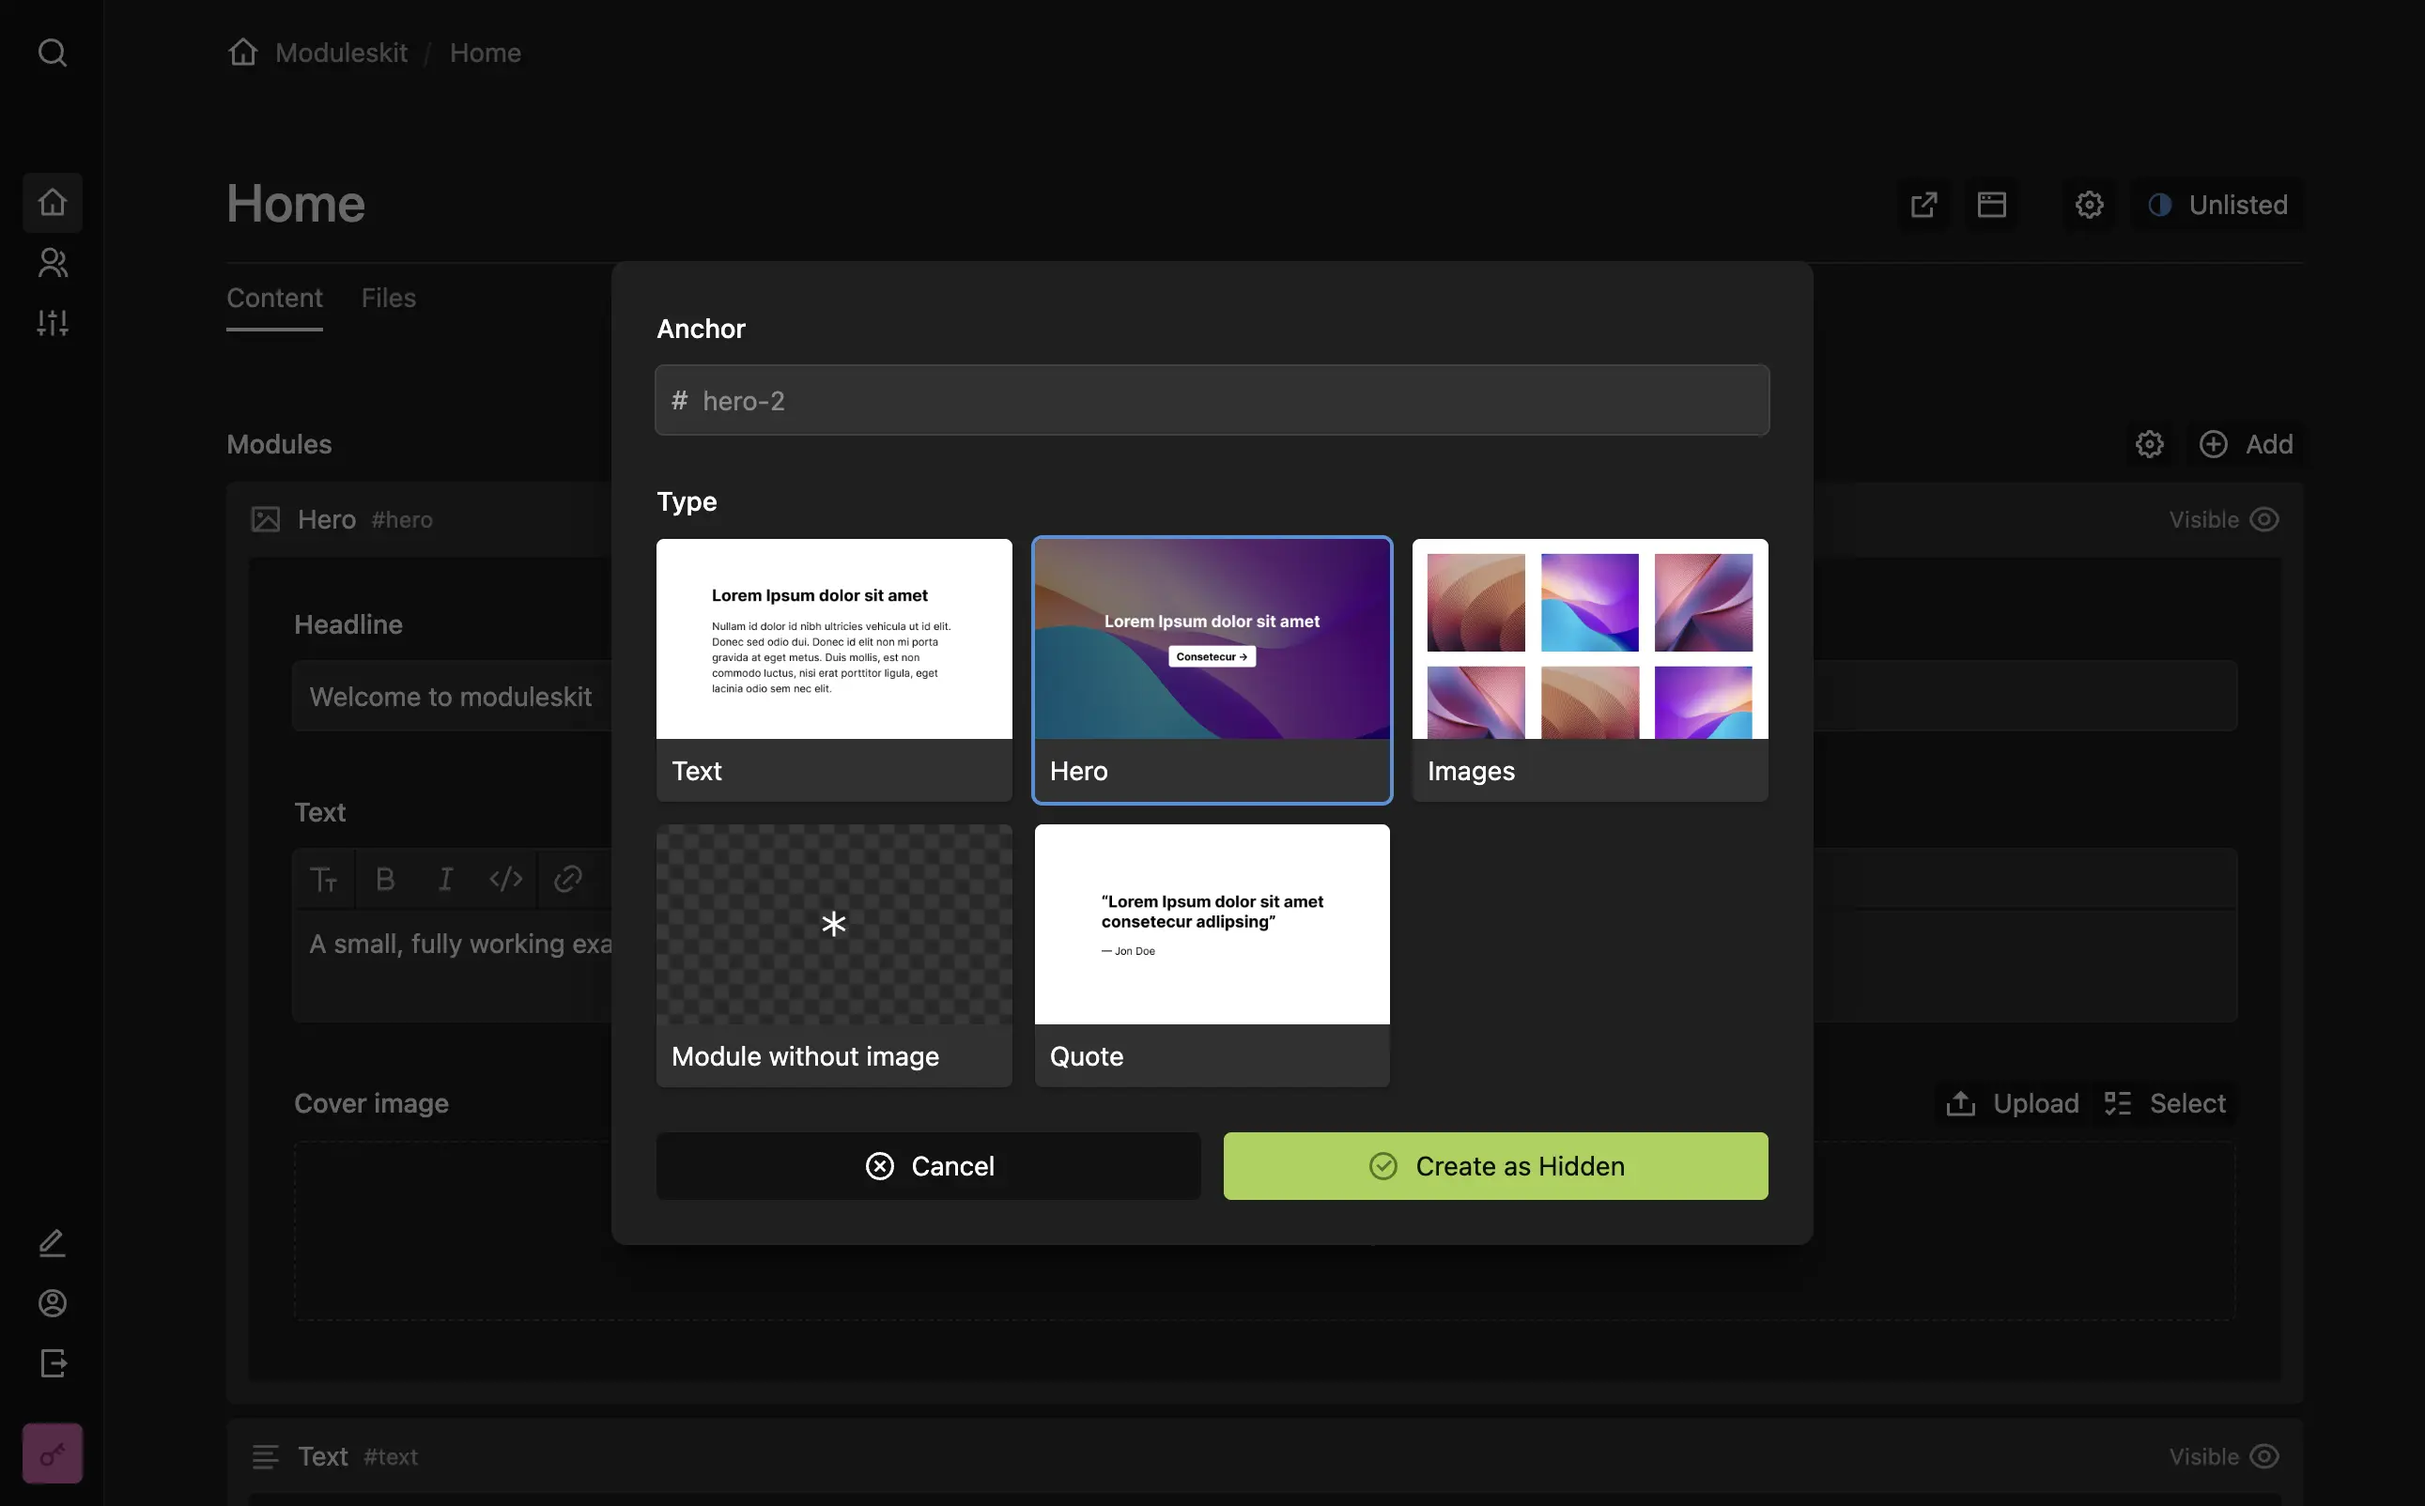
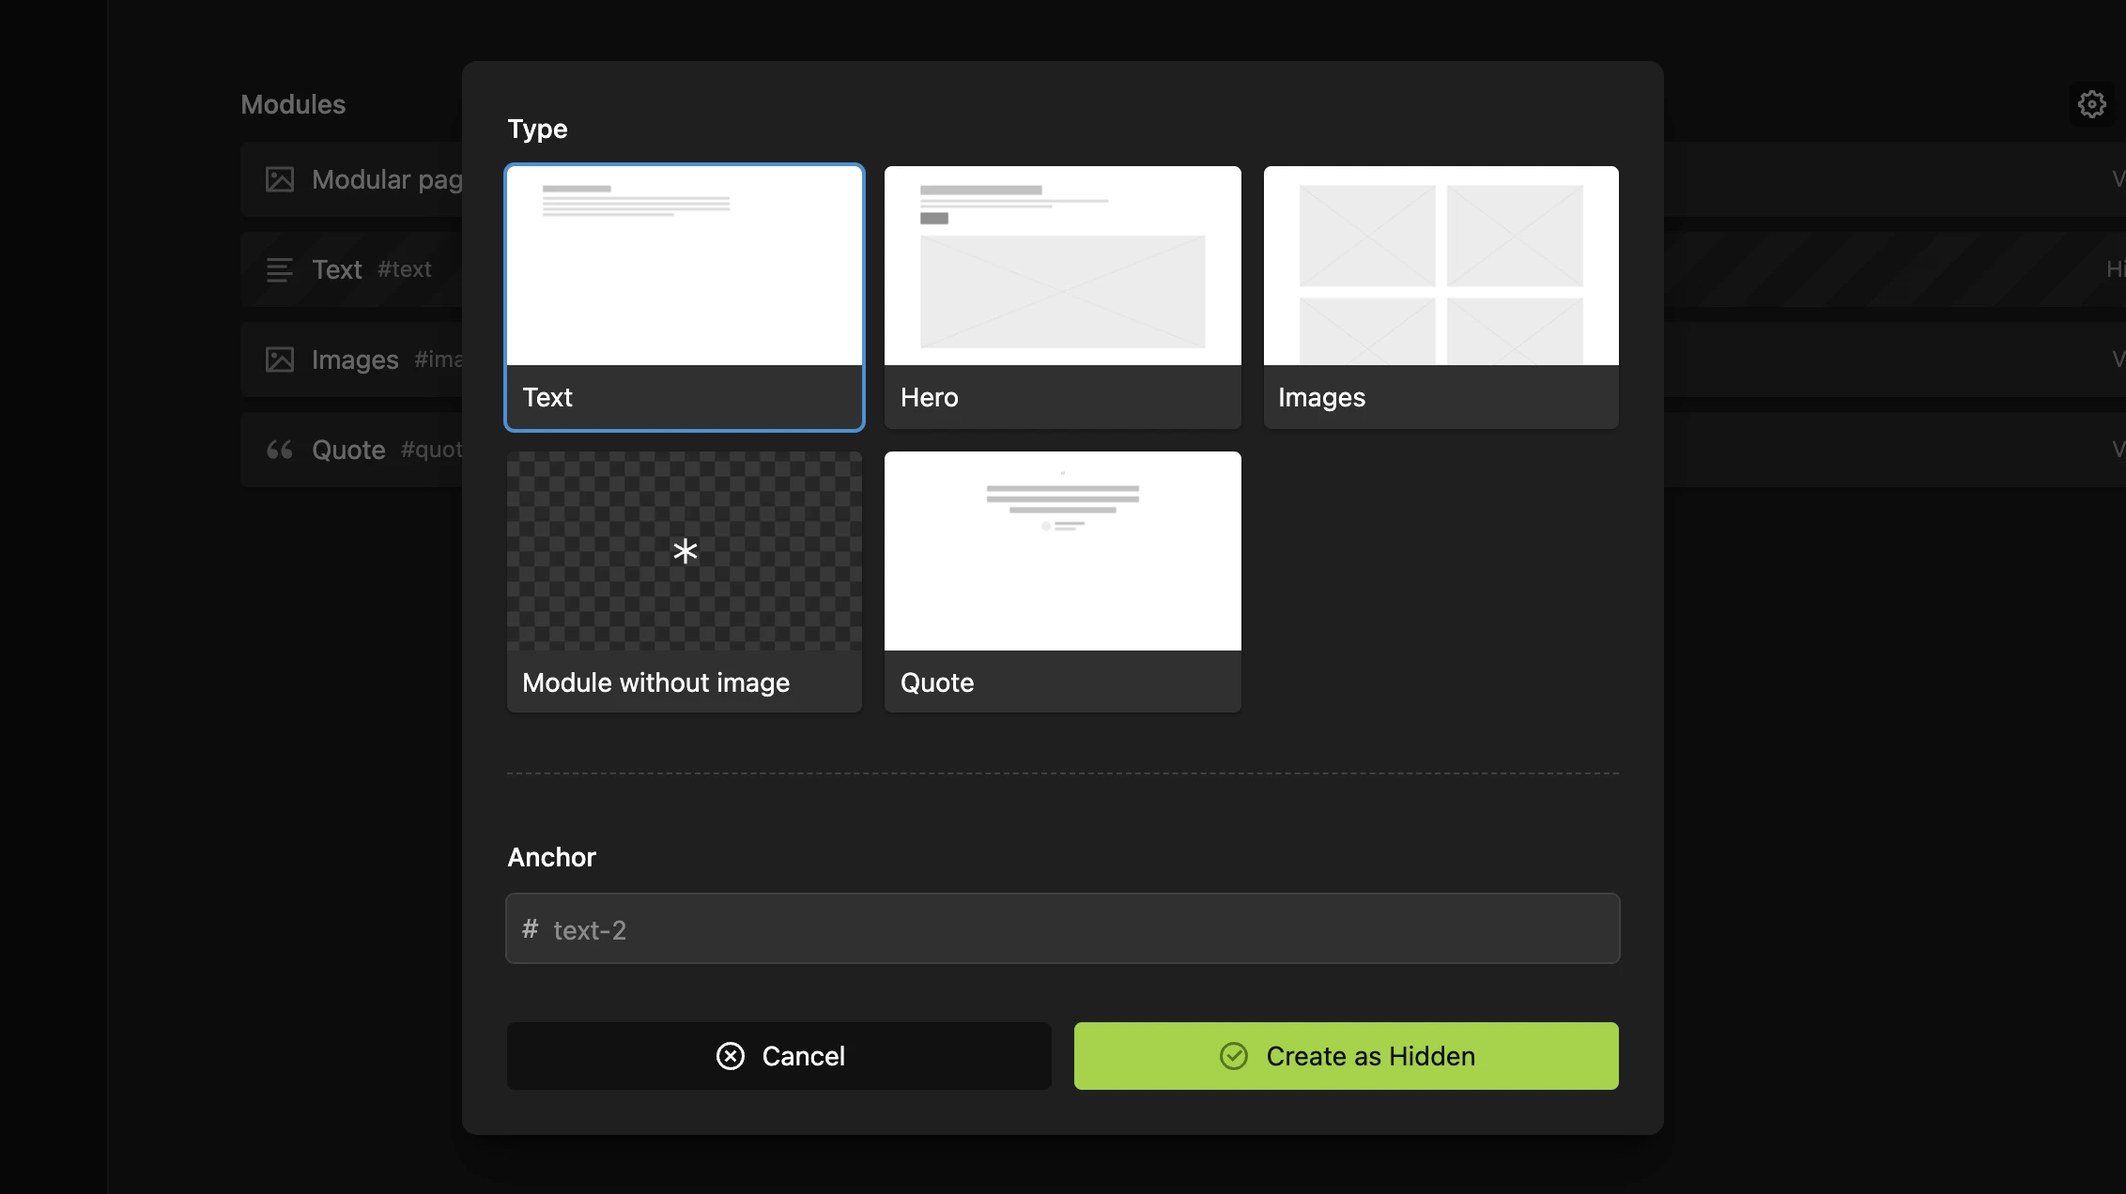
Update README, screenshots

diff --git a/README.md b/README.md
@@ -2,7 +2,7 @@
 
 Modular page building for [Kirby](https://getkirby.com/). Every module is a regular page with its own blueprint and snippet, edited inline on the parent page.
 
-<img width="1089" height="929" alt="Screenshot of the modules section with two modules, a text module with a textarea and a text with buttons module with both a textarea and a structure field for buttons" src=".github/screenshot.webp" />
+<img width="1132" height="802" alt="Screenshot of the modules section with two modules: a hero module whose card title shows its headline, and a selected text module with its toolbar" src=".github/screenshot.webp" />
 
 - Edit module fields inline on the parent page with a blocks-like UI
 - Signed previews for hidden modules
@@ -98,6 +98,8 @@ Modules are edited inline on the parent page: expand or collapse them, sort them
 
 Each module's visibility can be toggled with a single click on its card. Hidden modules stay in place, keeping their sort position and any inline edits, but the frontend skips over them when rendering. The card shows a striped background while a module is hidden.
 
+<img width="1132" height="188" alt="Screenshot of two module cards, one marked Visible and one marked Hidden with a striped background" src=".github/visibility.webp" />
+
 New modules are created hidden, so editors can prepare content before it goes live. Set `autopublish: true` to create them visible instead. The setting closest to a module wins, so you can turn it on for a single type or one section even when everything else stays hidden:
 
 ```yml
@@ -140,7 +142,7 @@ fields:
     type: text
 ```
 
-<img width="455" height="222" alt="Screenshot of a module, showing a text field with This is the label as value, same text is shown in the module card's title" src=".github/label.webp" />
+<img width="1132" height="200" alt="Screenshot of a module whose card title reads Modular page building, the same value as its Headline field" src=".github/label.webp" />
 
 It's a [query](https://getkirby.com/docs/guide/blueprints/query-language) resolved from the module's fields and refreshed on every save, so a text module shows its current headline. An empty result falls back to the title.
 
@@ -193,6 +195,8 @@ fields:
     type: textarea
 ```
 
+<img width="1132" height="584" alt="Screenshot of the module create dialog with a Headline field added below the anchor" src=".github/create-fields.webp" />
+
 Use it for the things worth setting before the module exists; everything else is edited inline afterwards. Only fields that fit in a dialog work here: text, number, select, date, toggle, link and the like. A textarea, blocks or structure field (or the reserved name `title`) can't be shown and raises an error. That's why the example asks only for the `headline`; the `text` body is a textarea, so you fill it in inline. A `required` field has to be listed here or have a `default`. Kirby normally creates a page as a draft to finish later; a module skips that, so every required field must be satisfied at creation.
 
 #### Filling the anchor automatically
@@ -212,13 +216,44 @@ When the anchor is filled this way and the type asks for no `create.fields`, the
 
 Add preview images to make the create and change-type dialogs show a visual grid instead of a dropdown. Drop images into `assets/module-previews/`, named after the module, for example `text.png` for the `text` module. Any image format works; a 16:9 ratio looks best.
 
-<img width="1291" height="802" alt="Screenshot of the module create dialog with an anchor field and 5 module types, 4 with preview images" src=".github/create.webp" />
+<img width="1132" height="636" alt="Screenshot of the module create dialog with 5 module types, 4 with preview images and one falling back to an icon" src=".github/create.webp" />
 
-Types without a matching image fall back to their blueprint `icon`. If no type has a preview image, the dialogs keep the plain dropdown. With a single module type there's nothing to pick, so no picker appears and the dialog goes straight to the fields.
+Types without a matching image fall back to their blueprint `icon`. If no type has a preview image (and you don'tuse groups), the dialogs keep the plain dropdown. With a single module type there's nothing to pick, so no picker appears and the dialog goes straight to the fields.
+
+### Grouping types
+
+Once you have a lot of module types, the picker can get pretty long. Fear not, similar the [blocks field](https://getkirby.com/docs/reference/panel/fields/blocks) you can group them:
+
+```yml
+# site/blueprints/pages/default.yml
+sections:
+  modules:
+    type: modules
+    templates:
+      content:
+        label: Content
+        type: group
+        templates:
+          - text
+          - quote
+      media:
+        label: Media
+        type: group
+        open: false
+        templates:
+          - hero
+          - images
+```
+
+<img width="1132" height="744" alt="Screenshot of the module create dialog with module types grouped under Content and Media headings" src=".github/groups.webp" />
+
+Each group takes a `label` and the `templates` belonging to it. You can also set `open: false` to have it collapsed initially.
 
 ### Concurrent editing
 
 Module edits are unsaved changes, published with the page's own Save button. While someone has unsaved module edits, the whole page is locked for everyone else, using Kirby's native lock: they see who is editing and all fields and modules become read-only.
+
+<img width="1132" height="349" alt="Screenshot of a page locked by another editor, their email in a red lock badge above greyed-out modules" src=".github/lock.webp" />
 
 Kirby releases a lock 10 minutes after the last edit. If someone leaves without saving, their changes wait for the next editor, and the page header names who made them, just like on any other page. Saving publishes them, discarding removes them.
 
@@ -227,7 +262,7 @@ Kirby releases a lock 10 minutes after the last edit. If someone leaves without 
 | Option            | Type     | Description                                                                                                    |
 | ----------------- | -------- | -------------------------------------------------------------------------------------------------------------- |
 | `default`         | `string` | Pre-selected module type in the create dialog                                                                  |
-| `templates`       | `array`  | Manually define available types instead of all                                                                 |
+| `templates`       | `array`  | Manually define available types instead of all, optionally sorted into [groups](#grouping-types)               |
 | `templatesIgnore` | `array`  | Hide specific module types                                                                                     |
 | `min`             | `int`    | Minimum number of modules                                                                                      |
 | `max`             | `int`    | Maximum number of modules                                                                                      |
@@ -271,18 +306,22 @@ Modules render as cards, but the layout is yours. Set `layout` on a section and 
 sections:
   modules:
     type: modules
-    layout: dense
+    layout: grid
 ```
 
 ```css
-.k-modules-list[data-layout~="dense"] {
-  --module-gap: 2px;
+.k-modules-list[data-layout~="grid"] {
+  display: grid;
+  grid-template-columns: 1fr 1fr;
+  gap: var(--spacing-2);
 }
 ```
 
-`--module-gap` and `--module-row` (the header row height) cover the common tweaks; target any `.k-module` class to go further.
+<img width="1132" height="188" alt="Screenshot of a modules section laid out in two columns, four collapsed modules in a 2x2 grid" src=".github/layout.webp" />
 
-You can combine layouts too: `layout: dense compact` matches both `[data-layout~="dense"]` and `[data-layout~="compact"]`.
+For smaller tweaks there's `--module-gap` and `--module-row` (the header row height); target any `.k-module` class to go further.
+
+You can combine layouts too: `layout: grid dense` matches both `[data-layout~="grid"]` and `[data-layout~="dense"]`.
 
 ## Rendering
 
